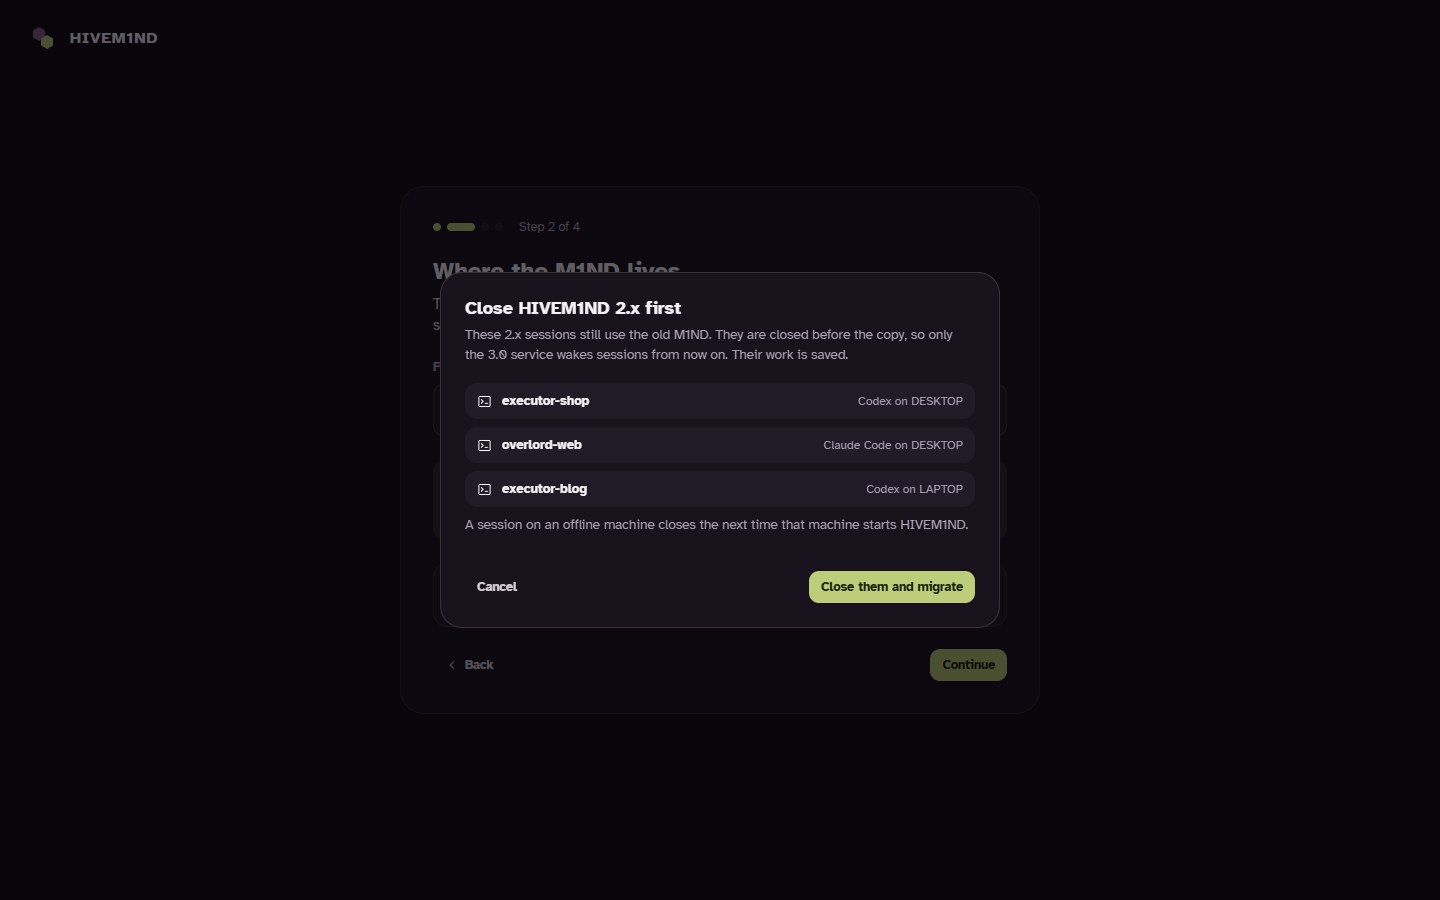
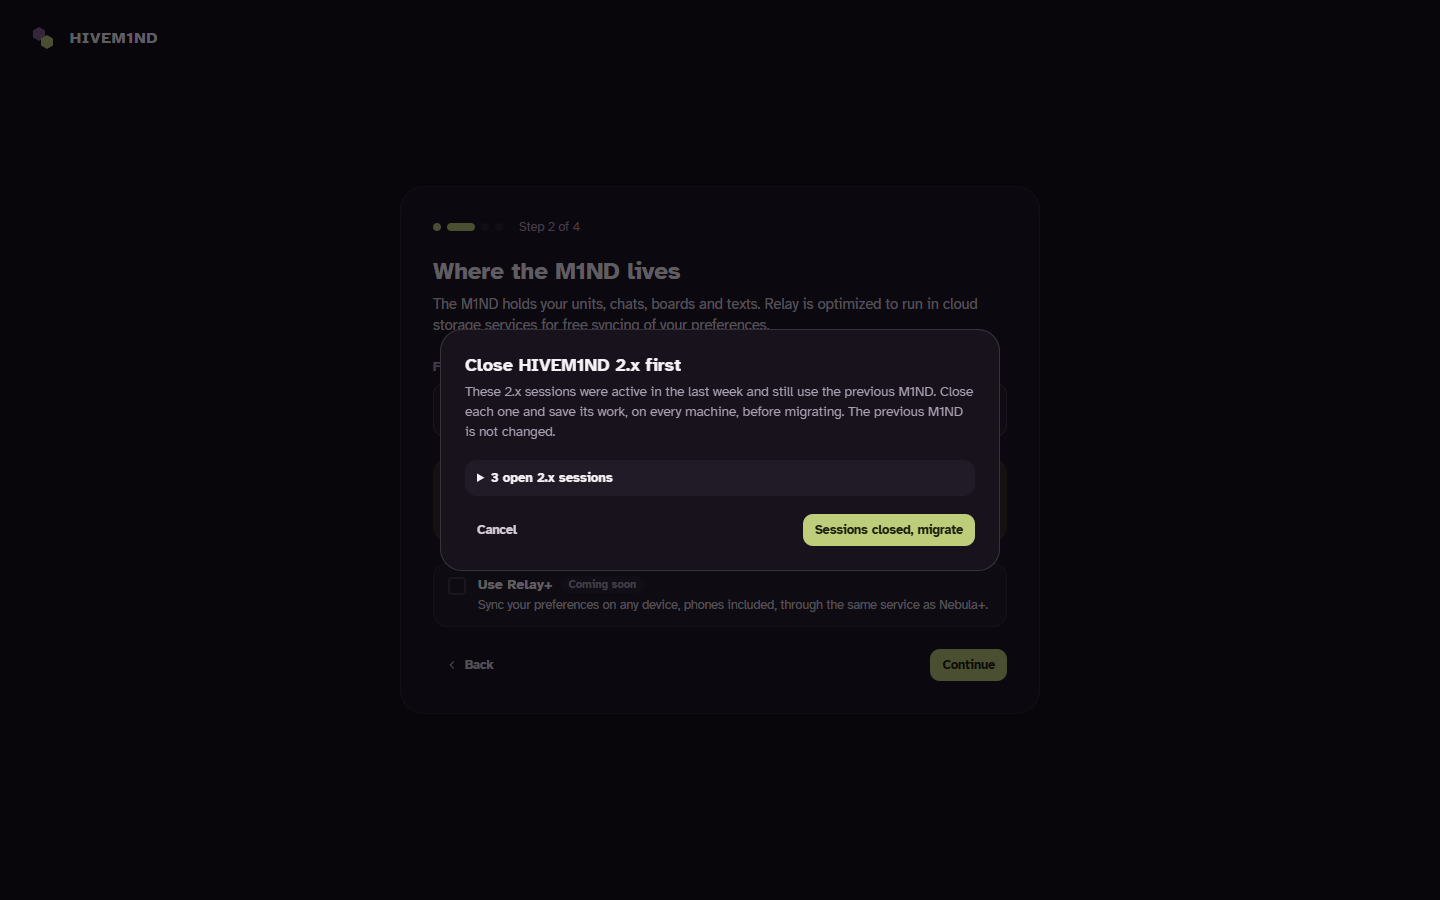
Recapture setup 1.4 with the folded 2.x session list

Changed region(s): [[0.3125, 0.28, 0.6875, 0.4978], [0.3125, 0.5289, 0.6875, 0.6844]]

diff --git a/docs/3.0/verification/README.md b/docs/3.0/verification/README.md
@@ -2,12 +2,13 @@
 
 Date: 2026-10-16
 
-The saved files come from three source revisions:
+The saved files come from four source revisions:
 
 | Source commit | Saved PNGs | Destinations |
 | --- | --- | --- |
-| e8e6b40697bda1b6d76a599036956872ebfbe58a | 187 | Every destination except the ones below, recaptured after the QA fixes (3.1 es, 3.4 es and 6.12 en reached on a second run of the same revision). |
+| e8e6b40697bda1b6d76a599036956872ebfbe58a | 185 | Every destination except the ones below, recaptured after the QA fixes (3.1 es, 3.4 es and 6.12 en reached on a second run of the same revision). |
 | f9a553184d2a2ca3c61cb1bcdab0675fa6bfccca | 2 | 4.9 in English and Spanish, recaptured once the Attach agents picker listed agents that load after it opened. |
+| 3342b24af3269ad790378574cd0ff1b52cfc5c70 | 2 | 1.4 in English and Spanish, recaptured once the 2.x sessions to close were folded under their count. |
 | 09585c5e14563f97aec5a6a2574b00d315ac0dbd | 2 | 7.7 in English and Spanish, kept from the first run. |
 
 Chrome: Chrome/155.0.8059.80
